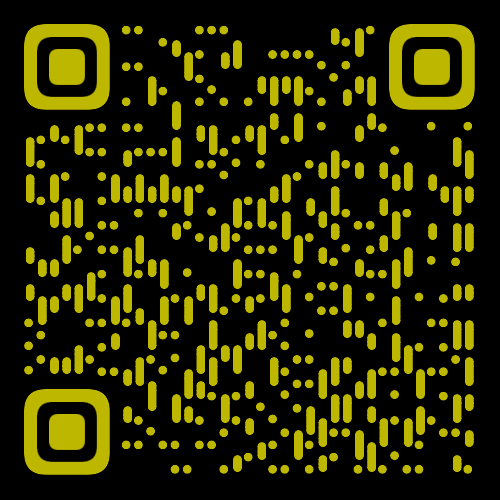
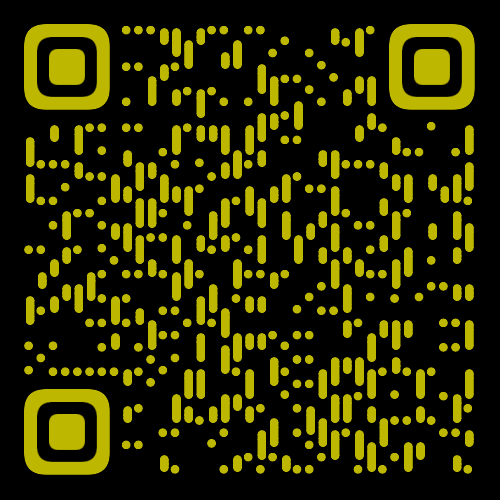
fix: 更新闲鱼链接为最新有效地址
旧的闲鱼链接已失效，更新为最新的有效链接以确保用户可以正常访问

diff --git a/index.html b/index.html
@@ -620,7 +620,7 @@
         }
 
         function copyWeChat() {
-            const wechatId = "https://m.tb.cn/h.7c2bDUb?tk=pTHEftQbSrY";
+            const wechatId = "https://m.tb.cn/h.7c1wzNS?tk=3vXEftv5qlu";
             if(navigator.clipboard && window.isSecureContext) {
                 navigator.clipboard.writeText(wechatId).then(() => {
                     showToast("闲鱼链接已复制，请粘贴到浏览器或打开闲鱼APP访问");
